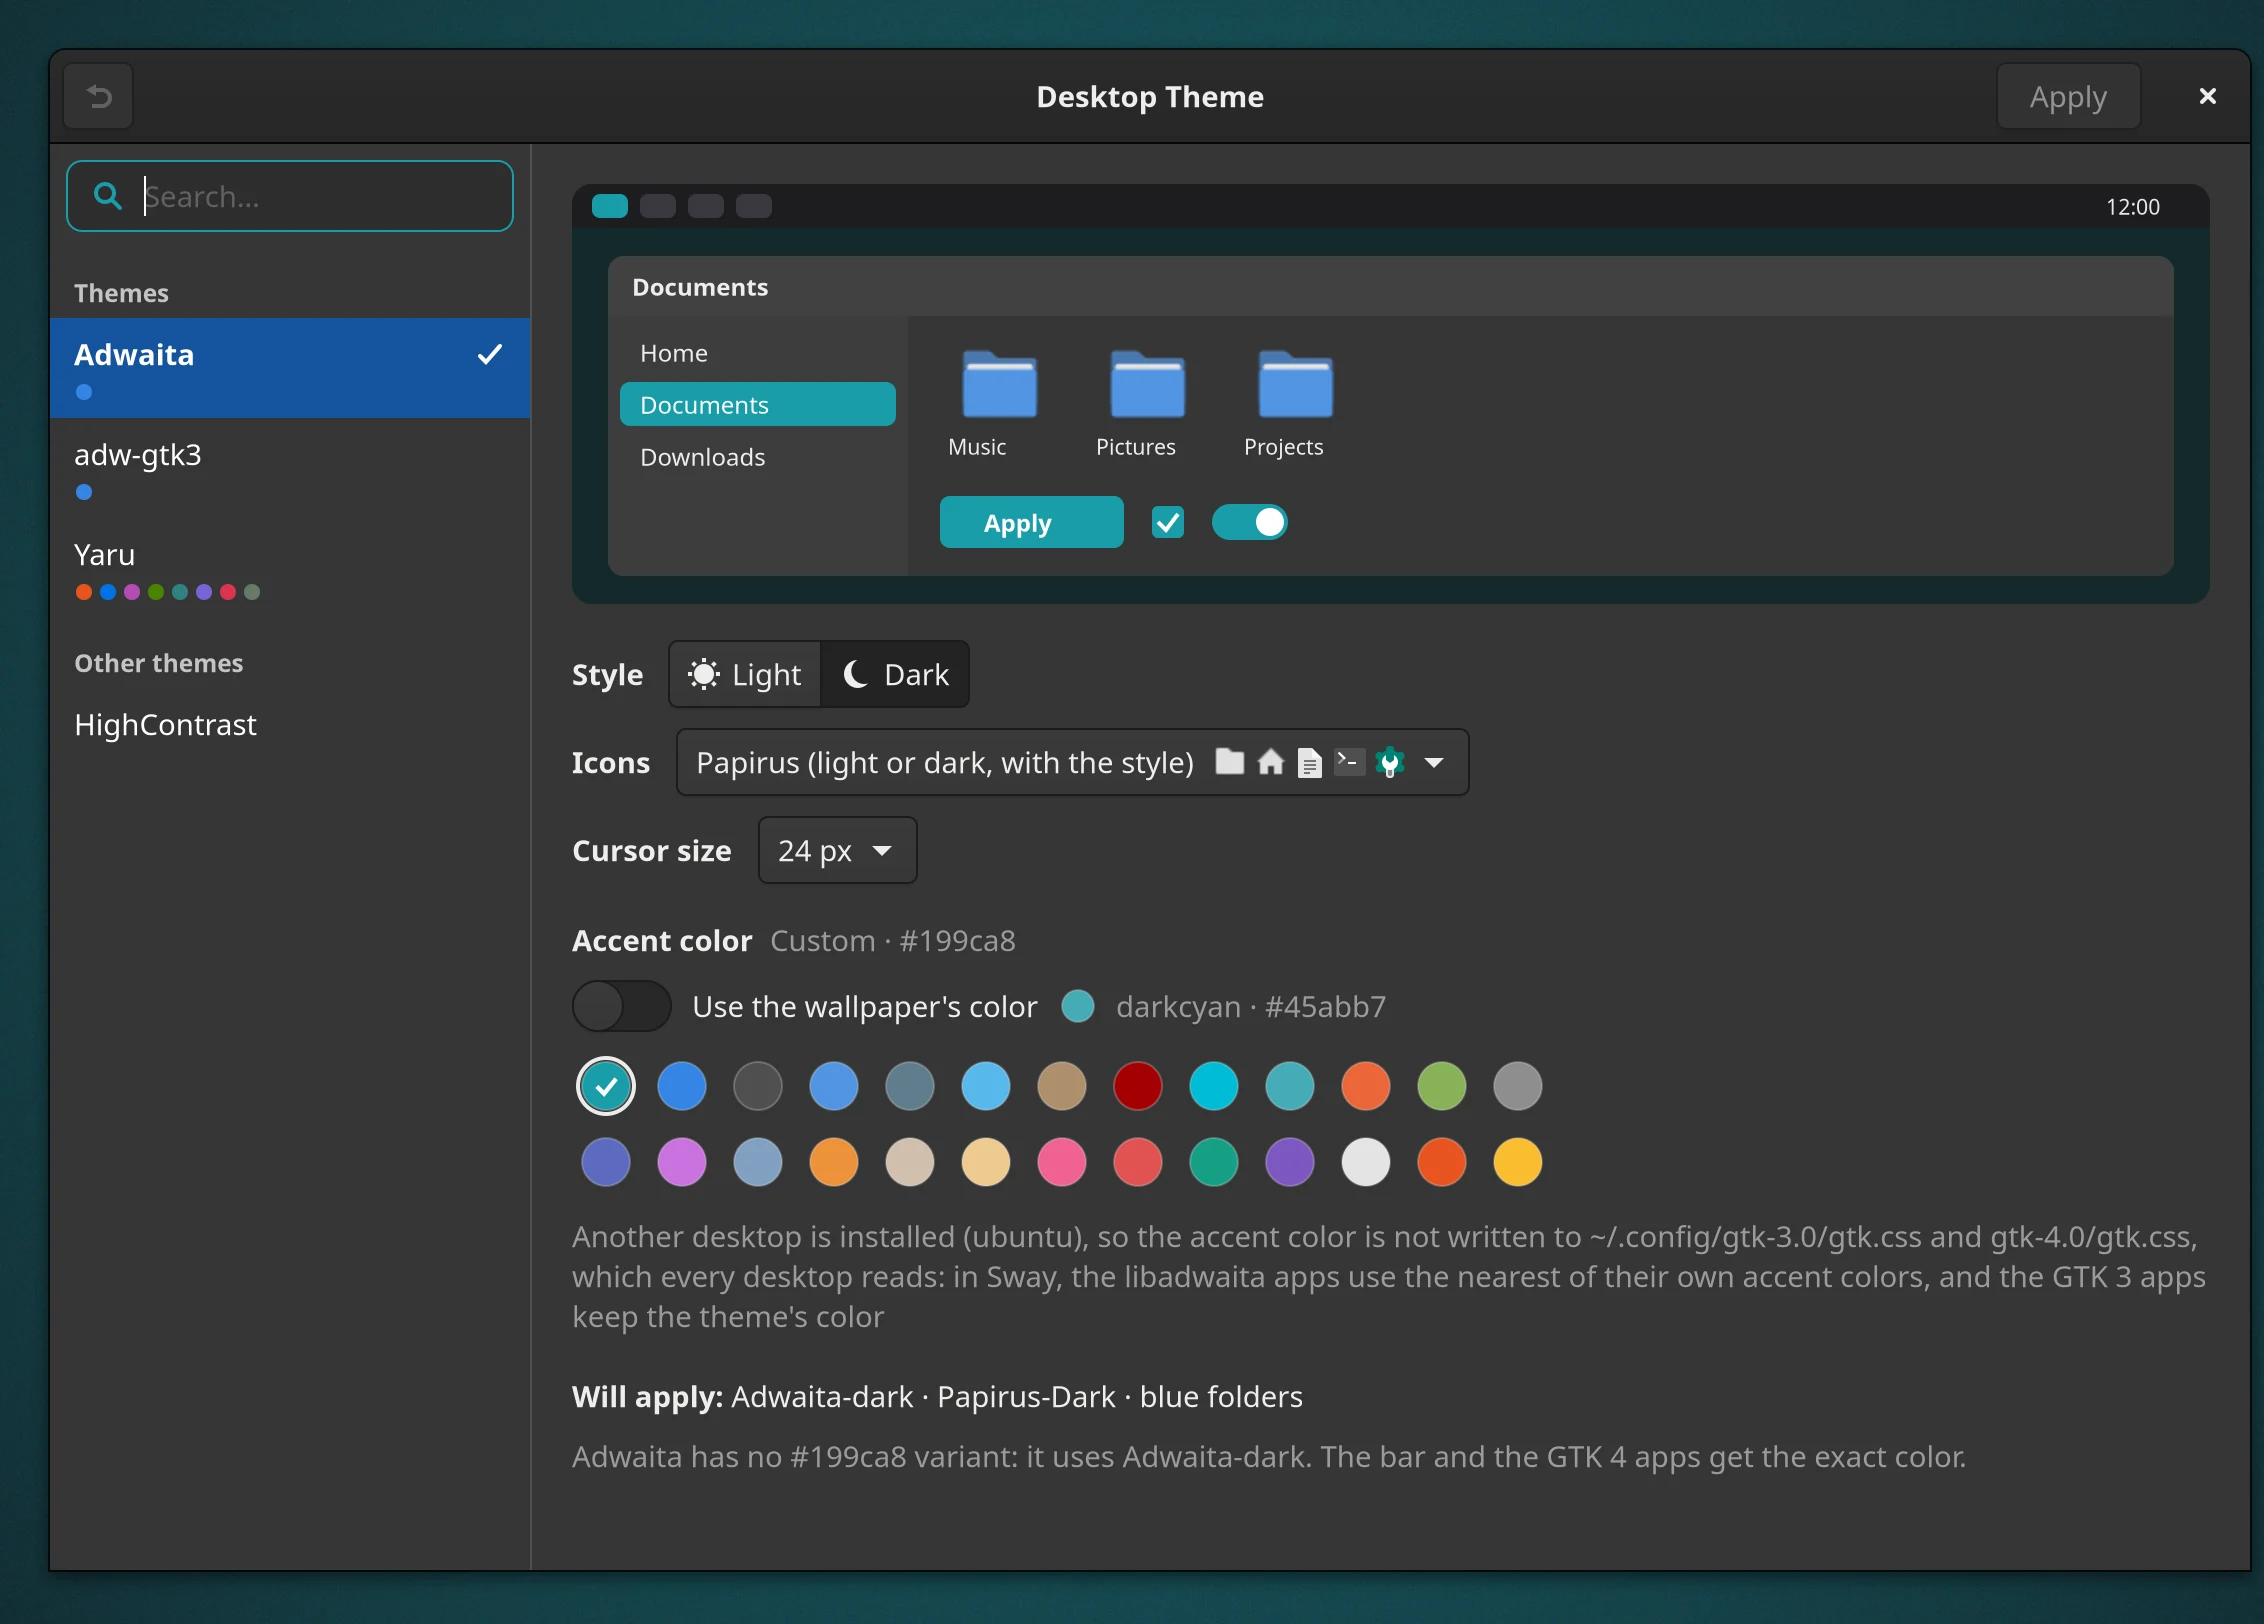
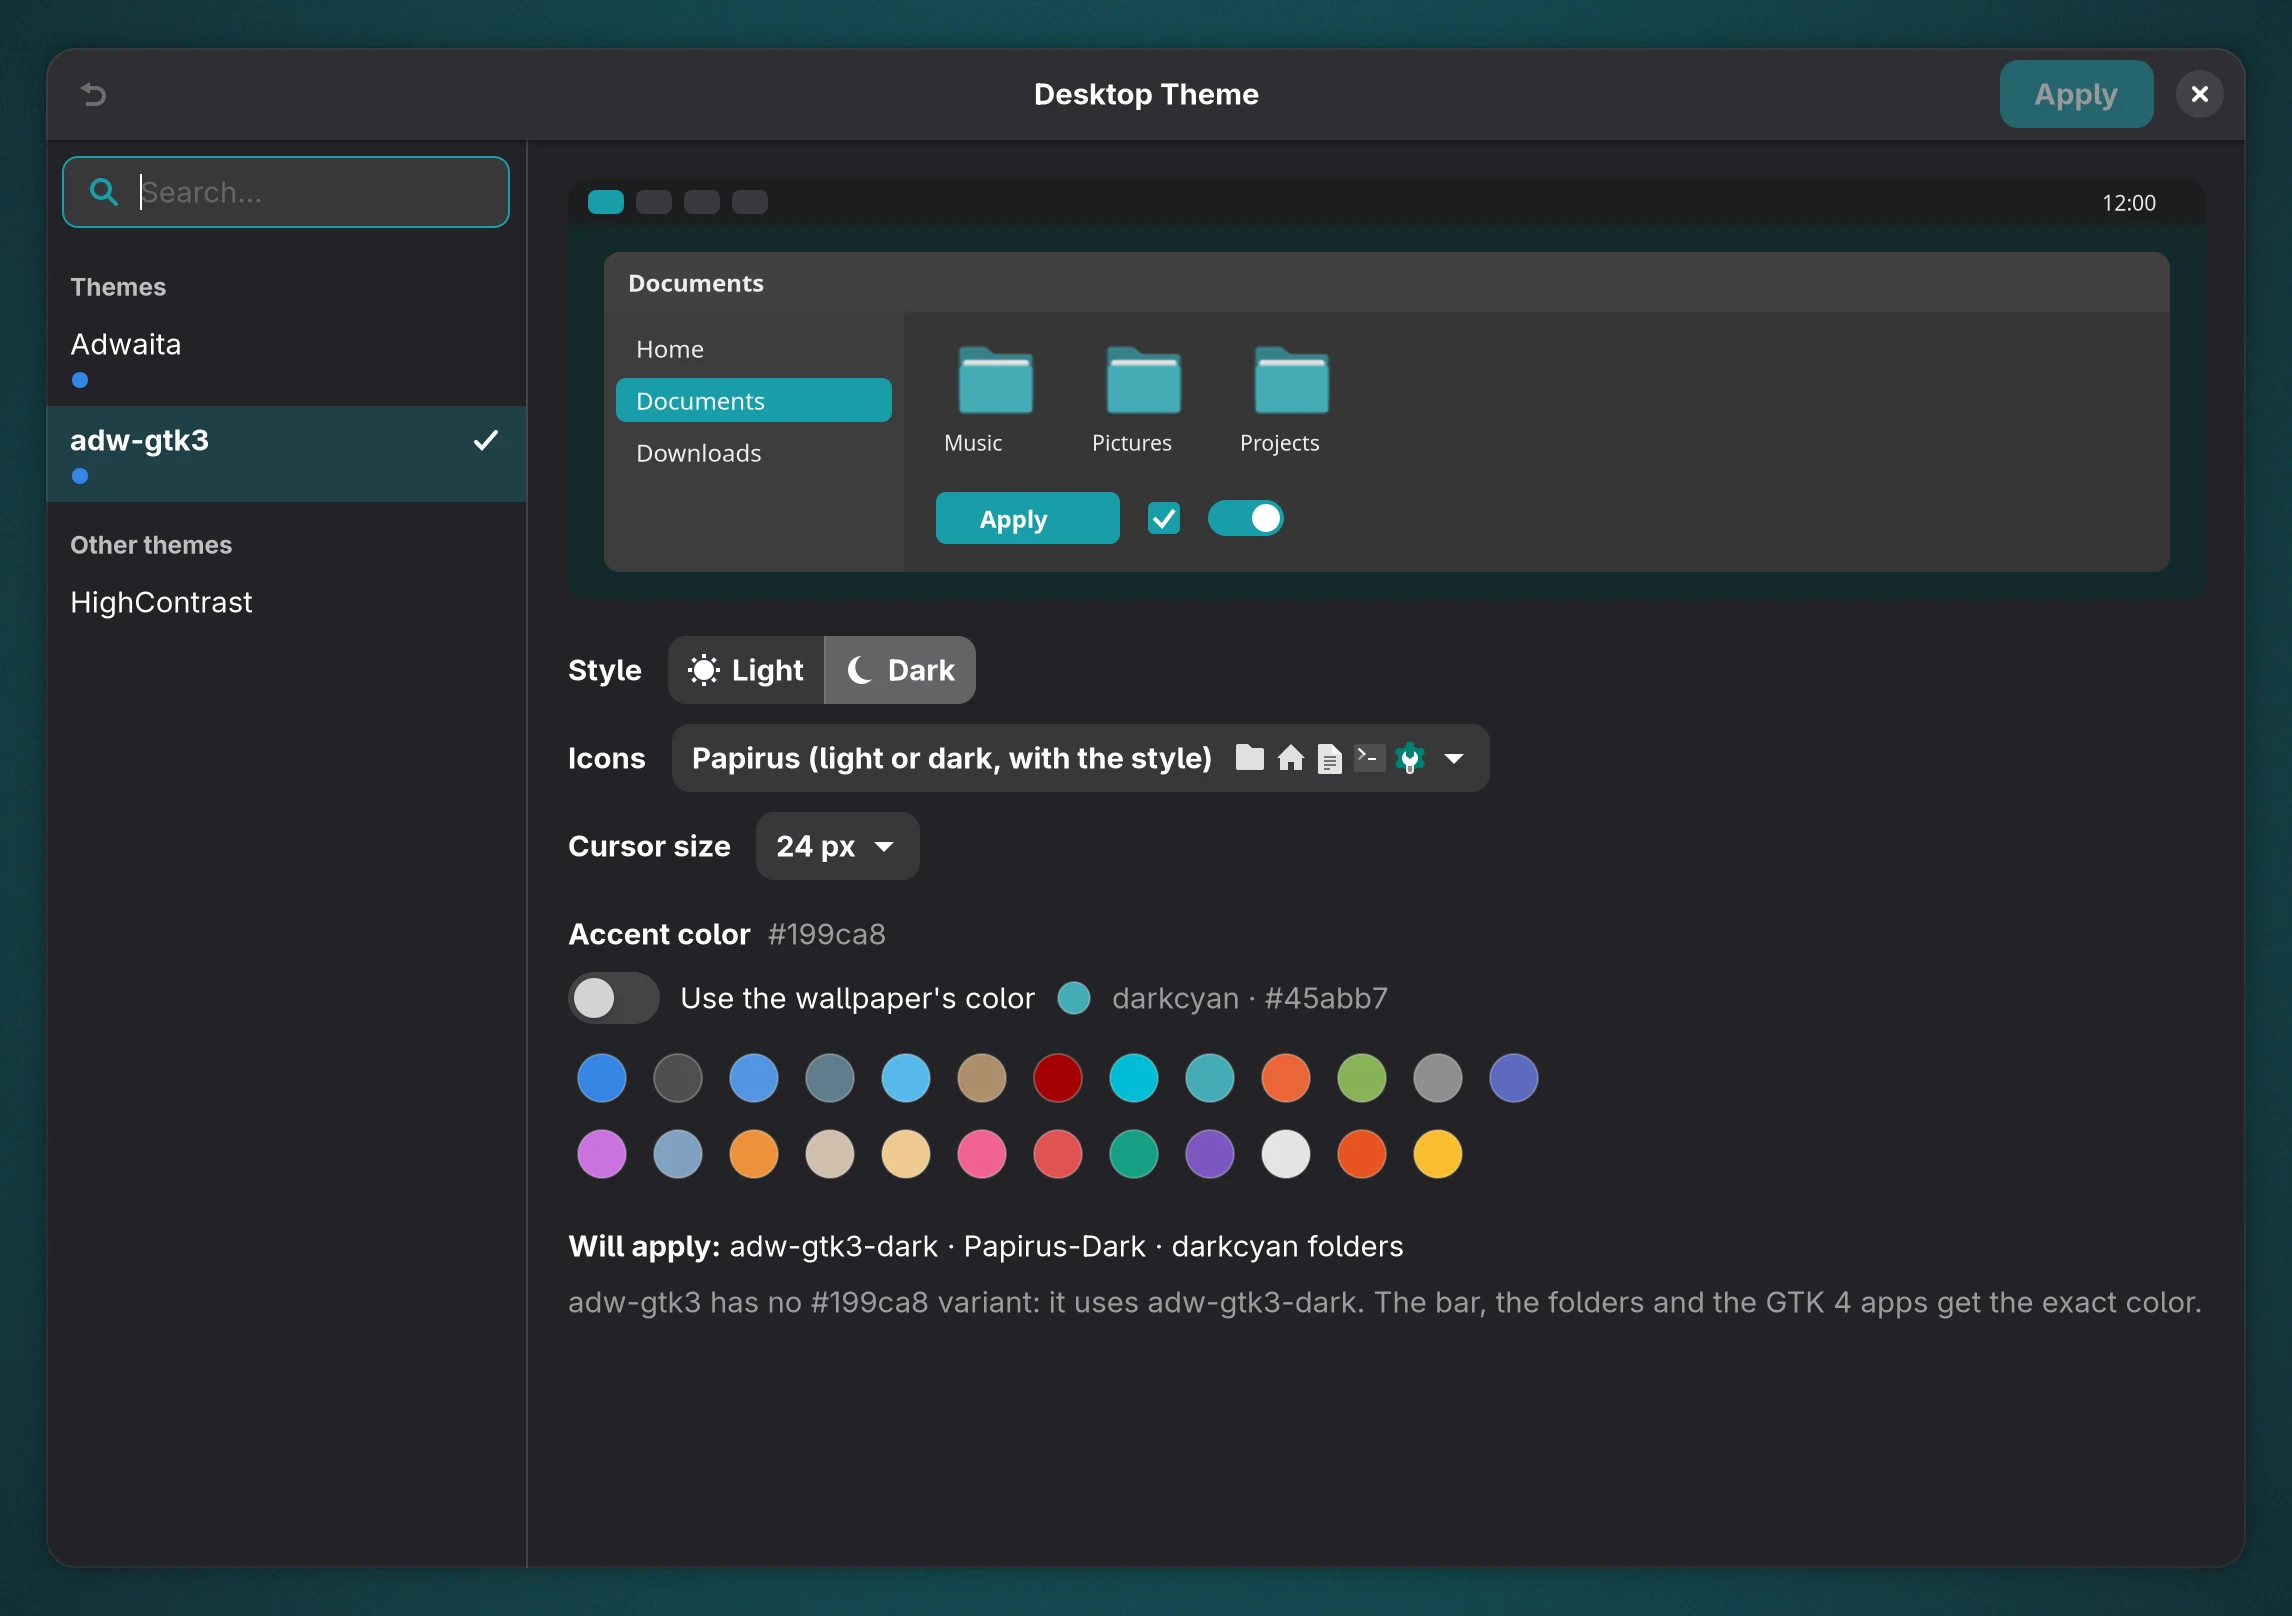
Theme: the Arch shot without the leftover folder colour; feature lists keep the text measure
The Theme crop is a retake on Arch: the default teal accent with the darkcyan Papirus folders
("Will apply: adw-gtk3-dark · Papirus-Dark · darkcyan folders"), where the earlier take had an
orange folder_color left in the VM's config. It also has no Ubuntu caveat.

With #40's wide content, the components' feature lists (a classed ul) stretched to the container's
width on the pages without a side image; they now keep the 72ch measure like the other prose.

Claude-Session: https://claude.ai/code/session_01AtGfJaBfegjumuJJE9gsoV

diff --git a/assets/css/site.css b/assets/css/site.css
@@ -116,7 +116,7 @@ h2 { font-weight: 600; }
 /* The content takes the header's container, like the home page: prose keeps a readable measure, the wide
    blocks (grids, the video, code, tables, tabs, rows of images) take the whole width */
 .content { color: var(--ink-soft); }
-.content :is(p, h2, h3, h4, blockquote), .content > :is(ul, ol, dl):not([class]) { max-width: var(--measure); }
+.content :is(p, h2, h3, h4, blockquote, .component__features), .content > :is(ul, ol, dl):not([class]) { max-width: var(--measure); }
 .content h2 { margin: 2.75rem 0 .875rem; font-size: 14px; color: var(--accent); }
 .content h2::before { content: "## "; color: var(--accent); }
 .content h3 { margin: 2rem 0 .5rem; font-size: 1.05rem; color: var(--ink); }
